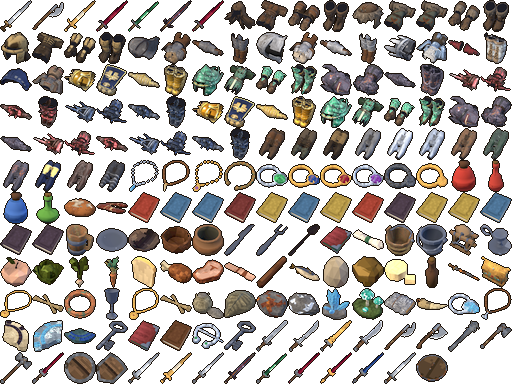
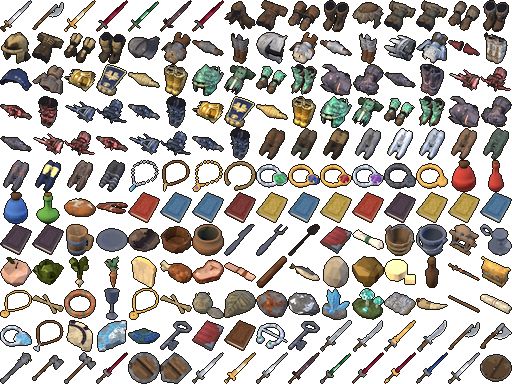
Intégration : bâton de taille et écorce au fil rouge en vrais modèles (glb + icônes)
pq_bois n'est pas un prop du catalogue (c'est un matériau) et les objets de quête doivent avoir leur glb :
test_objets_monde et test_icones_objets échouaient après la fusion de gameplay/quetes_sans_combat.
Modèles dans sources_blender/objets/objets_divers.py (306 et 406 triangles), atlas d'icônes régénéré.

diff --git a/sources_blender/objets/objets_divers.py b/sources_blender/objets/objets_divers.py
@@ -759,6 +759,40 @@ def broche_sigrun():
     return m
 
 
+def baton_taille():
+    """Bâton de taille de Gunnar (quête « Le grenier qui maigrit ») : bâton de frêne couché, un cran par sac d'orge, des
+    encoches pour les semaines, la rune de Gunnar brûlée près du bout."""
+    m = M("baton_taille")
+    r, L = 0.0115, 0.40
+    pts = [(-L / 2 + L * k / 8, 0.0, r + 0.0006 * math.sin(k * 1.7)) for k in range(9)]
+    tube(m, pts, [r * (0.92 + 0.08 * h1(k, 5)) for k in range(9)], 7, "bois", haut=(0, 0, 1))
+    for k in range(9):                                                            # crans (sacs d'orge), sur le dessus
+        x = -0.11 + 0.024 * k
+        pave(m, (x, 0.0, 2 * r - 0.0012), (0.0022, 0.016, 0.0028), "peau")
+    for k in range(4):                                                            # encoches longues (semaines), sur le flanc
+        x = 0.05 + 0.03 * k
+        pave(m, (x, -r + 0.0012, r), (0.0026, 0.0028, 0.018), "peau")
+    pave(m, (-0.165, 0.0, 2 * r - 0.0008), (0.018, 0.0028, 0.0018), "cendre")    # rune brûlée (trait + branches)
+    pave(m, (-0.165, 0.0035, 2 * r - 0.0008), (0.0028, 0.009, 0.0018), "cendre", rz=0.6)
+    return m
+
+
+def ecorce_sigrun():
+    """Écorce au fil rouge (quête « L'écorce au fil rouge ») : lanière d'écorce de bouleau roulée serré, couchée, nouée d'un fil
+    de laine rouge (deux tours et un bout qui pend)."""
+    m = M("ecorce_sigrun")
+    r, L = 0.016, 0.15
+    pts = [(-L / 2 + L * k / 6, 0.0, r) for k in range(7)]
+    tube(m, pts, [r * (0.95 + 0.07 * h1(k, 11)) for k in range(7)], 9, "pied_champi", haut=(0, 0, 1))
+    tube(m, [(-L / 2 - 0.001, 0.0, r), (L / 2 + 0.001, 0.0, r)], r * 0.55, 7, "peau", haut=(0, 0, 1))     # cœur roulé (bouts sombres)
+    for i in range(3):                                                            # rabat de l'écorce, léger soulèvement
+        pave(m, (-0.04 + 0.04 * i, r * 0.72, 2 * r - 0.004 + 0.0012 * i), (0.038, 0.0012, 0.006), "pied_champi")
+    for x in (-0.006, 0.006):                                                     # fil rouge : deux tours
+        tore(m, (x, 0.0, r), r + 0.0014, 0.0013, "cire", n=12, cotes=4, plan="yz")
+    tube(m, [(0.0, 0.0, 2 * r + 0.0014), (0.012, 0.006, 2 * r + 0.001), (0.03, 0.012, 0.0013)], 0.0011, 4, "cire")   # bout du nœud
+    return m
+
+
 # ------------------------------------------------------------------ registre
 FABRIQUES = {
     "potion_soin": potion_soin, "potion_soin_forte": potion_soin_forte, "potion_mana": potion_mana, "potion_endurance": potion_endurance,
@@ -773,6 +807,7 @@ FABRIQUES = {
     "fragment_sceau_givre": lambda: fragment_sceau("fragment_sceau_givre", TAU / 3, "sceau_givre", "cristal_givre"),
     "fragment_sceau_eau": lambda: fragment_sceau("fragment_sceau_eau", 2 * TAU / 3, "sceau_eau", "saphir"),
     "cle_archives": cle_archives, "registre_hrafn": registre_hrafn, "journal_sigrun": journal_sigrun, "broche_sigrun": broche_sigrun,
+    "baton_taille": baton_taille, "ecorce_sigrun": ecorce_sigrun,
 }
 for _t in TOMES:
     FABRIQUES[_t] = (lambda n: (lambda: tome(n)))(_t)
